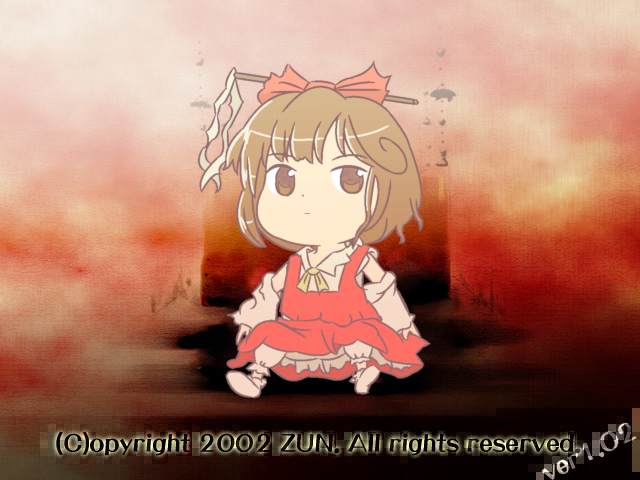
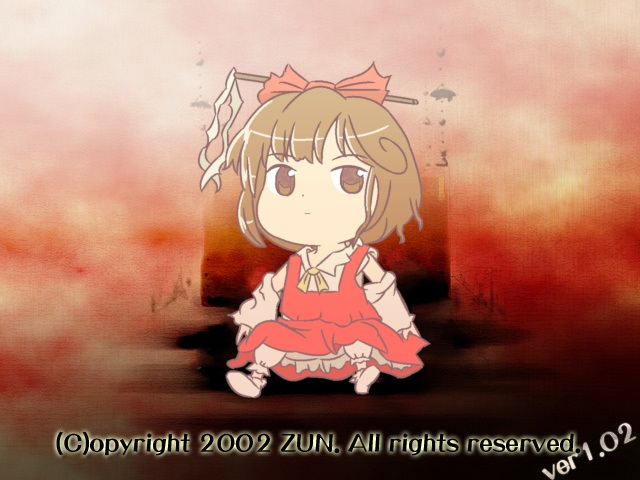
title fix

Changed region(s): [[0.3438, 0.8438, 1.0, 1.0], [0.0938, 0.875, 0.3125, 0.9688]]

diff --git a/gyate_gyate/files.js b/gyate_gyate/files.js
@@ -20,5 +20,5 @@
 	"th06/face12a.png": 3655560696,
 	"th06/face12b.png": 3655560696,
 	"th06/face12c.png": 3088052091,
-	"th06/title00.jpg": 2864767586
+	"th06/title00.jpg": 205696411
 }
